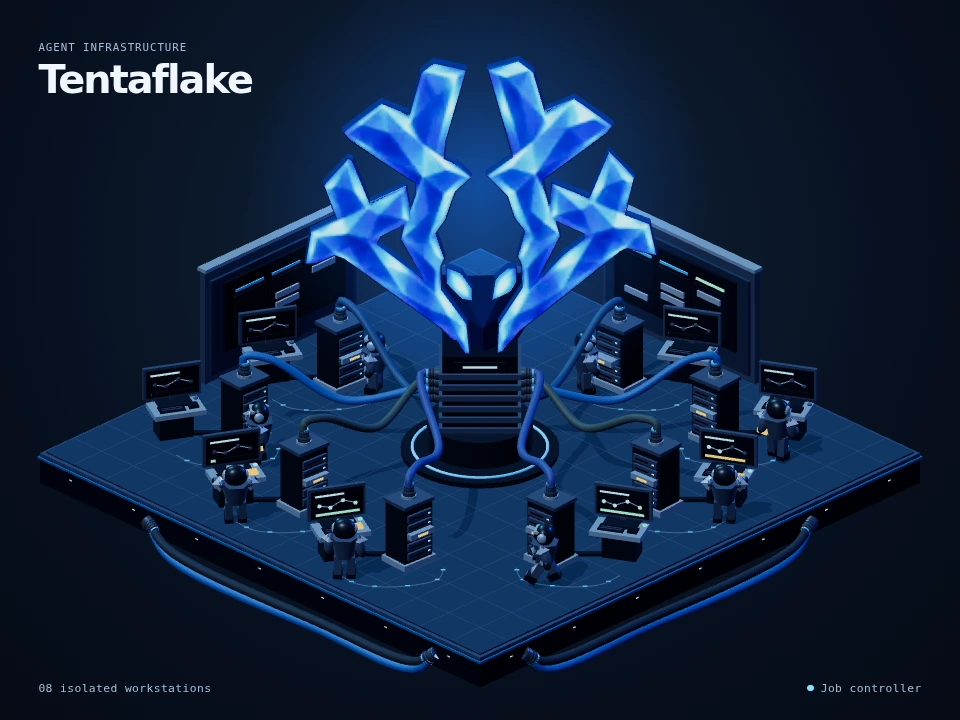
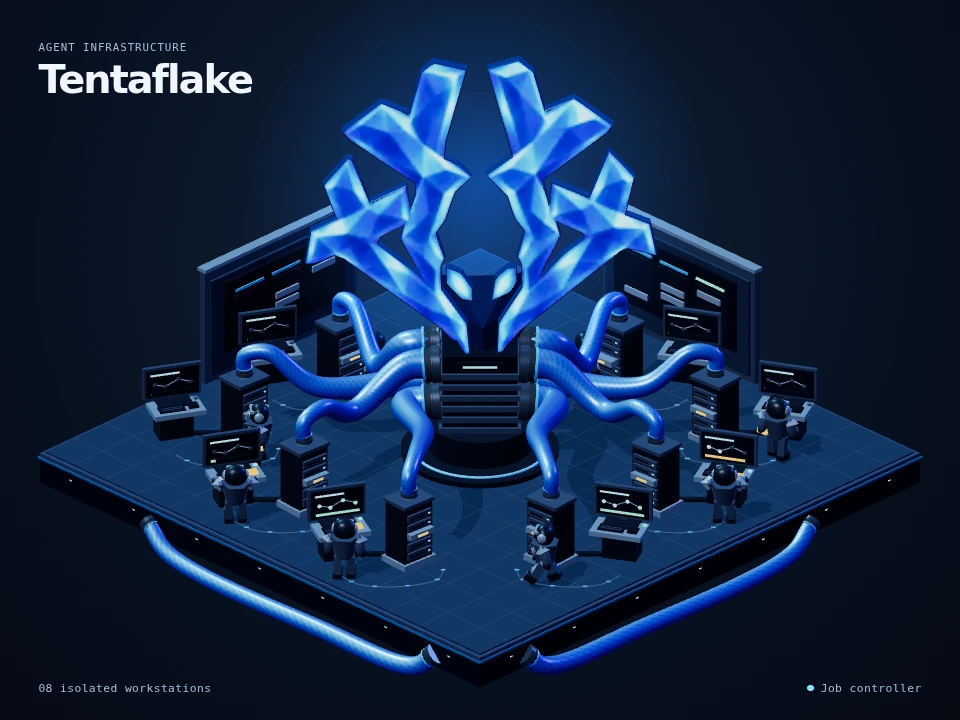
Give the data tentacles the crystal mark’s weight and blue highlights

diff --git a/scene/scene.js b/scene/scene.js
@@ -259,12 +259,11 @@ for (let i = 0; i < 6; i++)
 box(hub, 0, 1.64, 0.46, 0.8, 0.17, 0.06, graphite);
 box(hub, 0, 1.64, 0.5, 0.54, 0.035, 0.025, cyan);
 
-const jackets = [
-  metal(0x254568, 0.22, 0.51),
-  metal(0x285ea0, 0.26, 0.45),
-  metal(0x374950, 0.24, 0.53),
-  metal(0x384e89, 0.29, 0.47),
-];
+const cobalt = new T.Color(0x184bc0),
+  azure = new T.Color(0x328aef),
+  frost = new T.Color(0x91dfff);
+const jacket = metal(0xffffff, 0.39, 0.29);
+jacket.vertexColors = true;
 // Tile one small woven sleeve texture on every jacket, with no extra geometry.
 const weaveSize = 32,
   weavePixels = new Uint8Array(weaveSize * weaveSize * 4);
@@ -282,37 +281,69 @@ weave.magFilter = T.LinearFilter;
 weave.minFilter = T.LinearMipmapLinearFilter;
 weave.generateMipmaps = true;
 weave.needsUpdate = true;
-for (const material of jackets) {
-  material.map = weave;
-  material.bumpMap = weave;
-  material.bumpScale = 0.012;
-}
+jacket.map = weave;
+jacket.bumpMap = weave;
+jacket.bumpScale = 0.006;
 
 const socket = metal(0x495669, 0.72, 0.31),
   boot = metal(0x172333, 0.14, 0.61);
 const collars = new T.CylinderGeometry(1, 1, 1, 12);
-const up = vec(0, 1, 0);
+const up = vec(0, 1, 0),
+  forward = vec(0, 0, 1);
 function ferrule(parent, p, direction, radius, length, material) {
   const part = mesh(parent, collars, material, p.x, p.y, p.z);
   part.scale.set(radius, length, radius);
   part.quaternion.setFromUnitVectors(up, direction);
   return part;
 }
-function cable(parent, points, r, jacket) {
+// Like the office illustration, each lead has a full shoulder at the hub
+// and tapers into its plug. The fibre highlight follows the round sleeve.
+function cable(parent, points, rootRadius, tipRadius) {
   const curve = new T.CatmullRomCurve3(points.map((p) => vec(...p)));
-  const jacketGeo = new T.TubeGeometry(curve, 40, r, 10, false);
-  mesh(parent, jacketGeo, jacket).castShadow = true;
+  const radiusAt = (u) => tipRadius + (rootRadius - tipRadius) * (1 - u) ** 1.5;
+  const rings = 48,
+    sides = 16;
+  const geo = new T.TubeGeometry(curve, rings, 1, sides, false);
+  const centers = curve.getSpacedPoints(rings);
+  const pos = geo.attributes.position,
+    normals = geo.attributes.normal;
+  const colors = [],
+    color = new T.Color();
+  for (let i = 0; i <= rings; i++) {
+    const u = i / rings,
+      center = centers[i],
+      radius = radiusAt(u);
+    for (let j = 0; j <= sides; j++) {
+      const k = i * (sides + 1) + j;
+      const nx = normals.getX(k),
+        ny = normals.getY(k),
+        nz = normals.getZ(k);
+      pos.setXYZ(
+        k,
+        center.x + nx * radius,
+        center.y + ny * radius,
+        center.z + nz * radius,
+      );
+      const light = Math.max(0, -0.52 * nx + 0.79 * ny + 0.32 * nz);
+      color
+        .copy(cobalt)
+        .lerp(azure, 0.62 * light)
+        .lerp(frost, 0.7 * light ** 8);
+      colors.push(color.r, color.g, color.b);
+    }
+  }
+  geo.setAttribute("color", new T.Float32BufferAttribute(colors, 3));
+  mesh(parent, geo, jacket).castShadow = true;
   for (const u of [0, 1]) {
-    const tip = curve.getPointAt(u);
+    const tip = centers[u * rings],
+      r = radiusAt(u);
     const direction = curve.getTangentAt(u).multiplyScalar(u ? -1 : 1);
     const at = (d) => tip.clone().addScaledVector(direction, d * r);
-    ferrule(parent, at(0.3), direction, r * 1.6, r * 1.35, socket);
-    ferrule(parent, at(1.7), direction, r * 1.28, r * 1.9, boot);
-    for (const d of [1.15, 1.85, 2.55])
-      ferrule(parent, at(d), direction, r * 1.38, r * 0.21, armor);
-    ferrule(parent, at(3), direction, r * 1.12, r * 0.34, ice);
+    ferrule(parent, at(0.18), direction, r * 1.17, r * 0.55, socket);
+    ferrule(parent, at(0.69), direction, r * 1.06, r * 0.65, boot);
+    ferrule(parent, at(0.94), direction, r * 1.1, r * 0.16, ice);
   }
-  return curve;
+  return { curve, radiusAt };
 }
 const spots = [
   [-2.18, -2.24],
@@ -479,22 +510,22 @@ for (let i = 0; i < spots.length; i++) {
     if (o.isMesh) o.castShadow = true;
   });
   const y = 1.21;
-  const portY = 0.86 + row * 0.235;
-  const root = [s * 0.63, portY, (row - 1.5) * 0.19];
+  const portY = row % 2 === 0 ? 1.76 : 1.11;
+  const root = [s * 0.64, portY, row < 2 ? -0.36 : 0.34];
   const uplink = cable(
     scene,
     [
       root,
-      [s * 0.91, portY, root[2]],
-      [x * 0.58, 0.75 + row * 0.1, z * 0.49],
-      [x * 0.89, 1.49, z * 0.88],
-      [x, 1.51, z],
+      [s * 1.14, portY - 0.04, root[2]],
+      [s * (Math.abs(x) * 0.66 + 0.16), 1.03 + row * 0.08, z * 0.45],
+      [x * 0.9, 1.62, z * 0.84],
+      [x, 1.52, z],
       [x, y, z],
     ],
-    0.066,
-    jackets[row],
+    0.255,
+    0.118,
   );
-  const dispatch = oval(scene, 0, 0, 0, 0.087, 0.087, 0.087, cyan);
+  const dispatch = hoop(scene, 0, 0, 0, 1, 0.095, cyan);
   cells.push({ ...cell, worker: g, limbs, carried, uplink, dispatch });
 }
 // Rear partitions frame the room like the agent office. Its queue and
@@ -534,19 +565,18 @@ for (const side of [-1, 1]) {
     boardCards.push({ card, cell: cells[2 * i + (side > 0 ? 1 : 0)] });
   }
   // Underfloor trunk runs along the bevel with both ends on the chassis.
-  for (let i = 0; i < 2; i++)
-    cable(
-      scene,
-      [
-        [side * 0.7, -0.3, 6.15],
-        [side * 1.0, -0.5 - i * 0.13, 6.03],
-        [side * 2.54, -0.57 - i * 0.13, 4.56],
-        [side * 4.88, -0.5 - i * 0.13, 2.25],
-        [side * 5.18, -0.31, 1.71],
-      ],
-      0.072,
-      i ? jackets[1] : boot,
-    );
+  cable(
+    scene,
+    [
+      [side * 0.7, -0.3, 6.15],
+      [side * 1.0, -0.58, 6.03],
+      [side * 2.54, -0.68, 4.56],
+      [side * 4.88, -0.58, 2.25],
+      [side * 5.18, -0.31, 1.71],
+    ],
+    0.155,
+    0.13,
+  );
 }
 
 // Repeated fixed props share draw calls. Animated limbs and job indicators
@@ -671,8 +701,15 @@ function updateCell(cell, seconds) {
     if (i === 3 && complete) port.material = result;
   }
   dispatch.visible = clock < 0.76;
-  if (dispatch.visible)
-    dispatch.position.copy(uplink.getPointAt(clock / 0.76)).y += 0.042;
+  if (dispatch.visible) {
+    const u = clock / 0.76;
+    dispatch.position.copy(uplink.curve.getPointAt(u));
+    dispatch.quaternion.setFromUnitVectors(
+      forward,
+      uplink.curve.getTangentAt(u),
+    );
+    dispatch.scale.setScalar(uplink.radiusAt(u) * 1.035);
+  }
 }
 
 function draw(seconds) {
